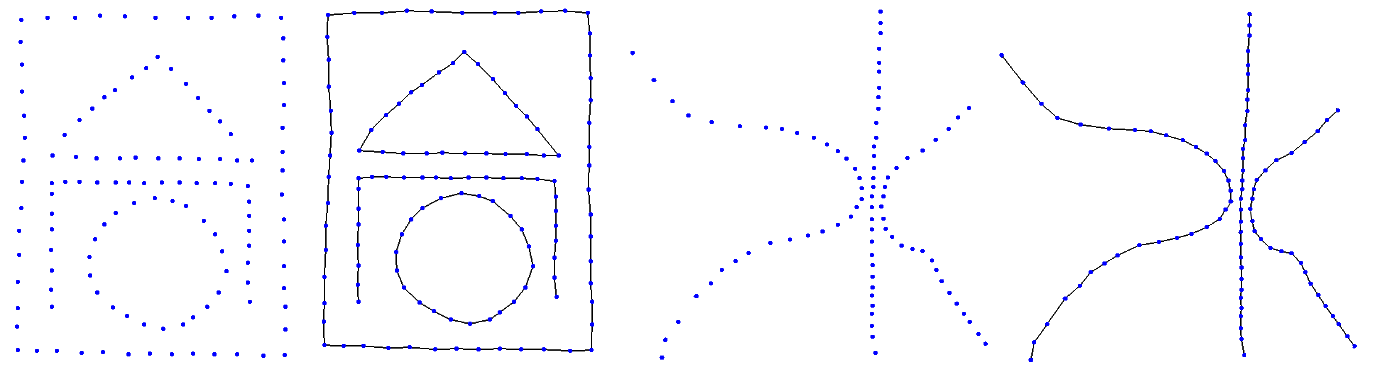
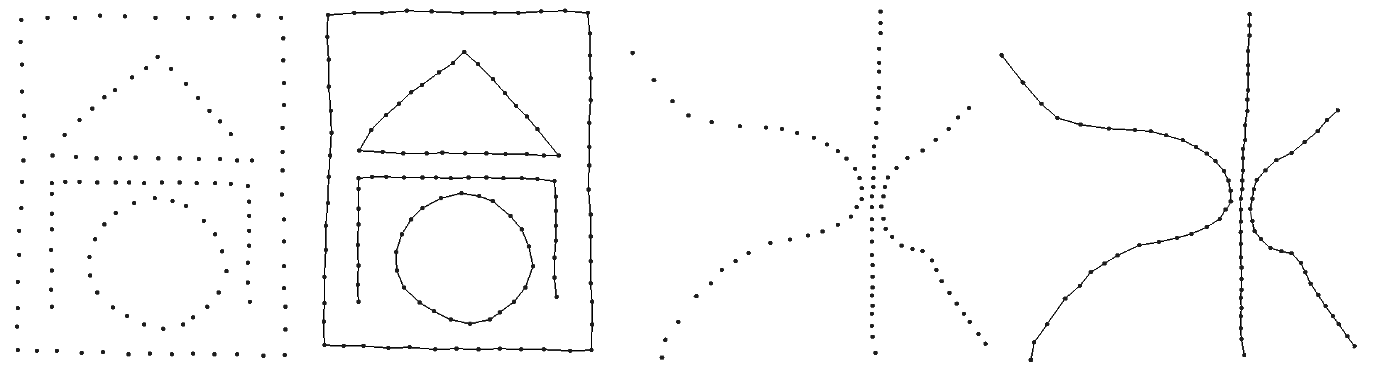
Small changes
Added table to output part, made all images black/white.

diff --git a/report/report.tex b/report/report.tex
@@ -86,6 +86,7 @@ The road network reconstruction problems is solved using a minimum spanning tree
 \label{outputOverview}
 \end{figure}$ $\\
 
+
 \section{The algorithms}
 \label{se:algorithms}
 
@@ -480,6 +481,16 @@ The network algorithm has different input than the other two given curve reconst
 \subsection{Resulting output}
 Dingen die je erin kan zetten:\\
 Parameters, input sizes, sampling conditions, wat niet werkt en waarom niet, allemaal met plaatjes/tabellen erbij. Geef ook aan hoe je de werking van het algoritme kan zien in de output.
+
+\begin{table}[ht!]
+    \begin{tabular}{llllll}
+    ~                       & 100 nodes & 500 nodes & 1.000 nodes & 5.000 			nodes & 10.000 nodes \\
+    Single Reconstruction   & 33ms      & 126ms     & 782ms       & 3.985ms     	& 20.604ms     \\
+    Multiple Reconstruction & 38ms      & 146ms     & 207ms       & 2.947ms     	& 7.387ms      \\
+    Network Reconstruction  & 18ms      & 85ms      & 143ms       & 1.996ms     	& 4.802ms      \\
+    \end{tabular}
+\caption{Table showing the computing time required for different input sizes.}
+\end{table}
 \subsubsection{Single curve}
 \subsubsection{Multiple curves}
 \subsubsection{Network reconstruction}
